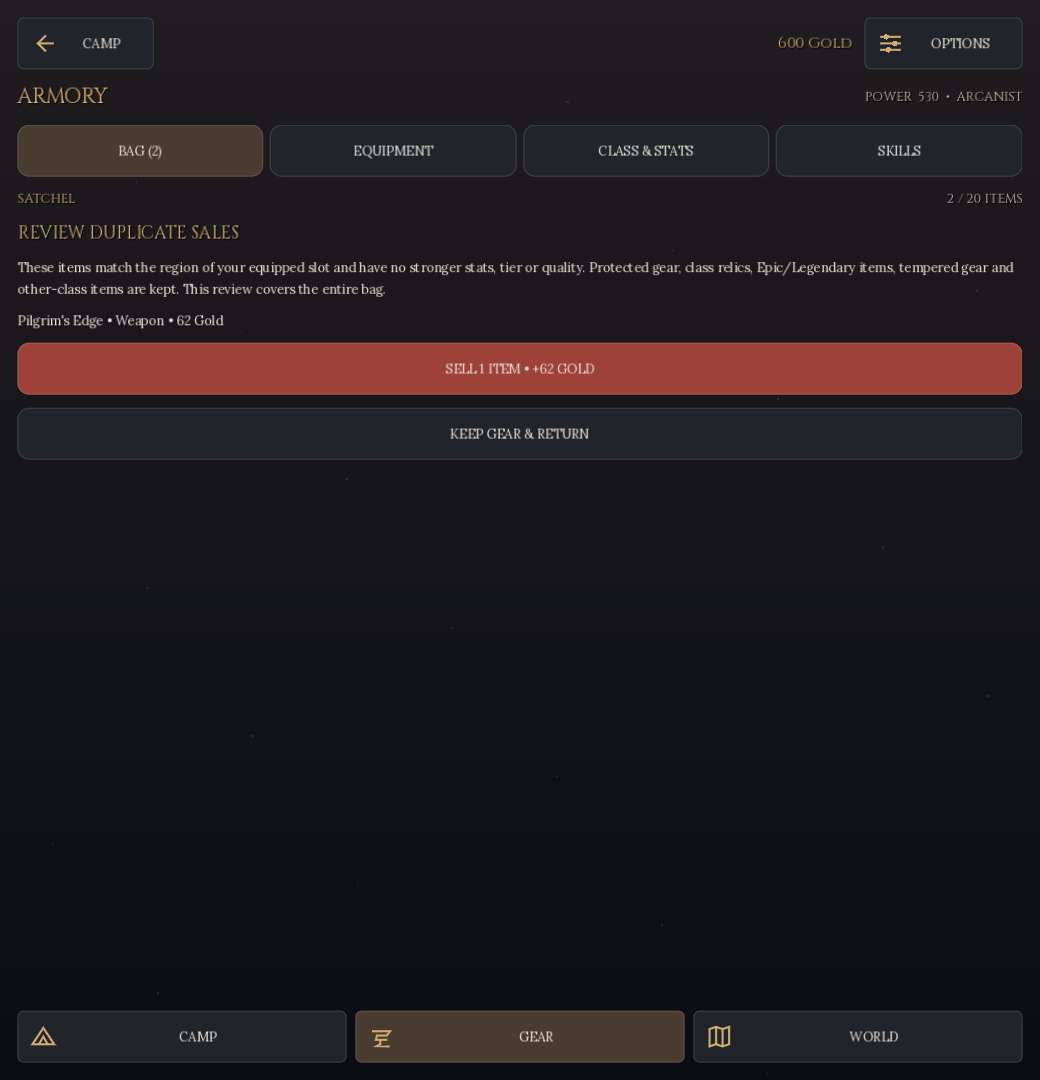
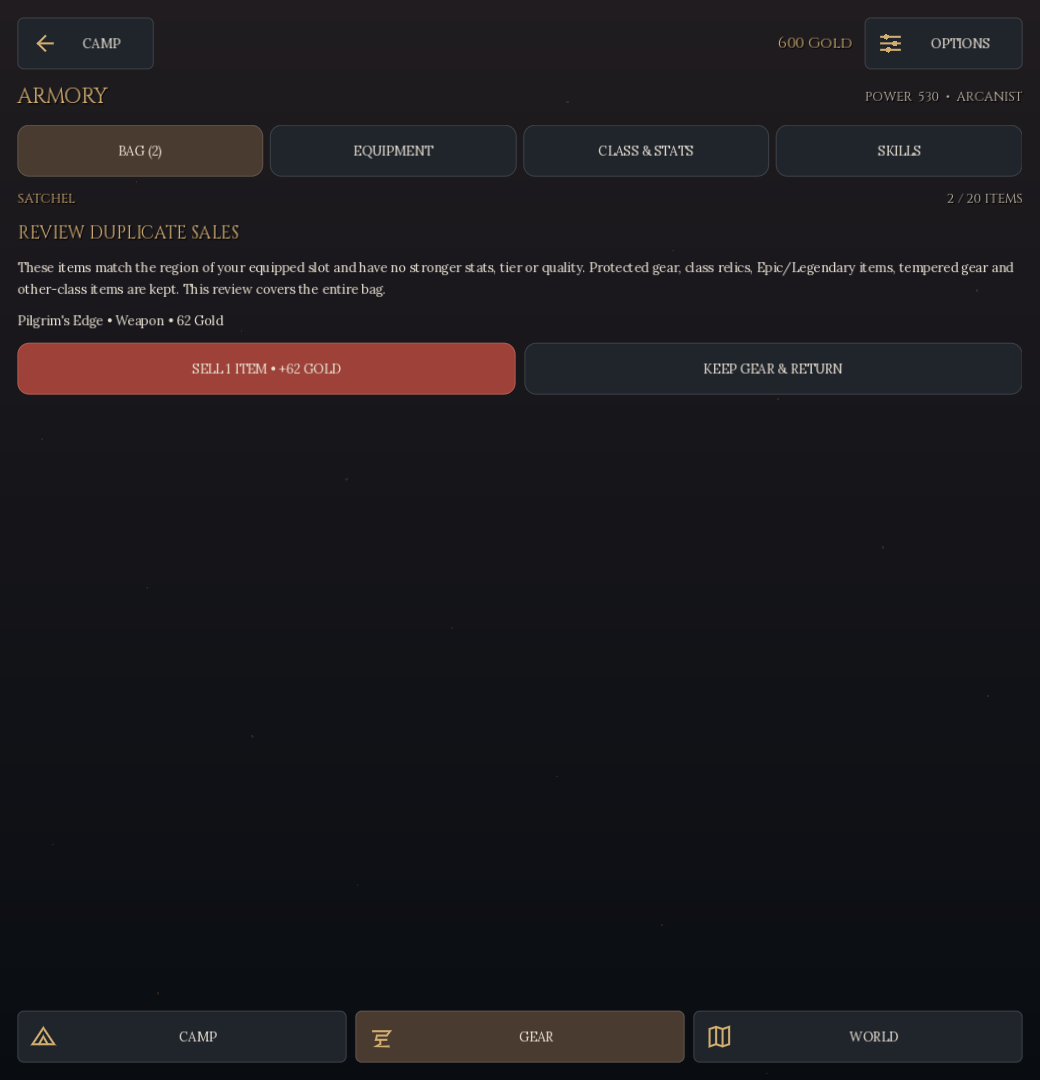
Keep sale confirmation and cancellation visible on compact displays

Changed region(s): [[0.4308, 0.3056, 0.9846, 0.3667], [0.4308, 0.3972, 0.5846, 0.4278], [0.1846, 0.3361, 0.3385, 0.3667]]

diff --git a/docs/audit/2026-10-03/gear-goals.md b/docs/audit/2026-10-03/gear-goals.md
@@ -63,6 +63,11 @@ Verkaufsvorschau und nahezu quadratische Set-Ansicht wurden visuell geöffnet
 und geprüft; die anderen Ansichten wurden automatisch auf Überlaufen geprüft.
 Die zuletzt gespeicherten Bilder enthalten auch die korrekte Auswahl der
 Equipment-Registerkarte und den Singular bei einem einzelnen Verkauf.
+Der abschließende UI-Feinschliff ordnet Verkaufen und Abbrechen in einer
+gemeinsamen Zeile an. Die neue Suite und alle sechs nativen Renderansichten
+wurden danach wiederholt; bei der kurzen Verkaufsliste liegen jetzt beide
+Aktionen in allen drei Größen vollständig innerhalb der sichtbaren
+Scrollfläche, auch bei kompakter Large-Text-Darstellung.
 
 ## Grenzen
 
